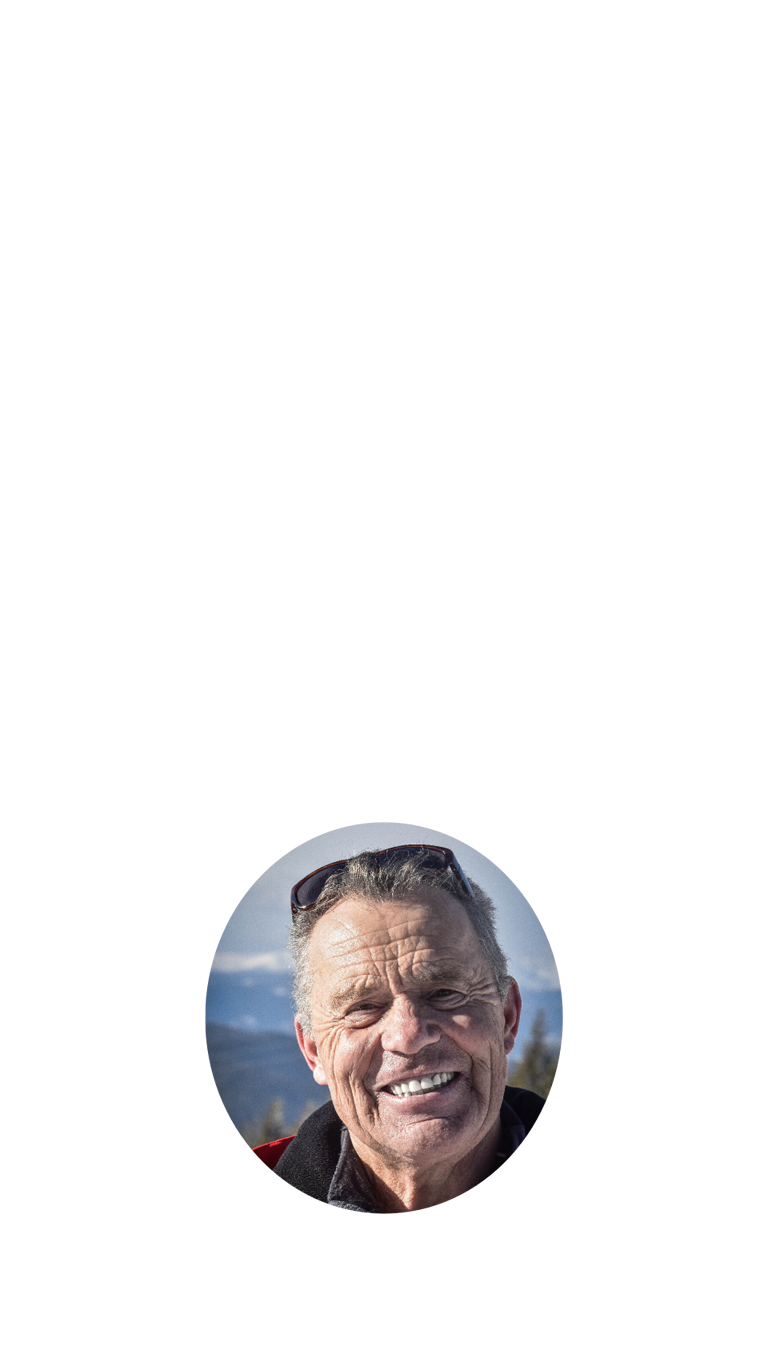
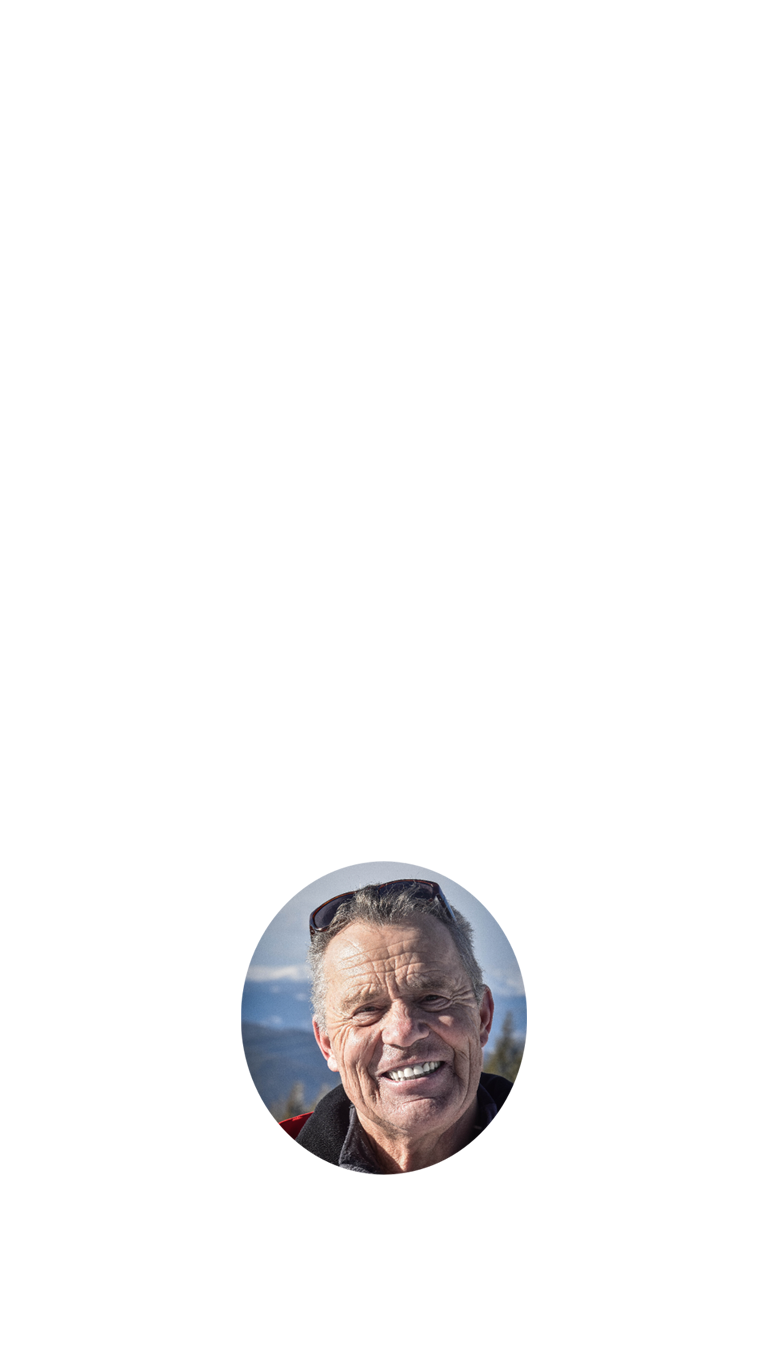
minor changes

Changed region(s): [[0.25, 0.5833, 0.75, 0.8904]]

diff --git a/src/components/Masthead/Masthead.js b/src/components/Masthead/Masthead.js
@@ -1,5 +1,7 @@
 import React, { Component } from 'react';
 import './Masthead.css';
+import './color.css';
+
 
 export default class Element extends Component {
 
@@ -12,15 +14,15 @@ export default class Element extends Component {
         return (
             <div className="Masthead">
                 <div className="Masthead__item">
-                    <span className="Masthead__label">Conçu, écrit et réalisé par</span>
+                    <span className="Masthead__label white">Conçu, écrit et réalisé par</span>
                     <span className="Masthead__details">Solène de Larquier, Charlotte Durand, Aurore Gayte, Gabrielle Ramain, Clotilde Ravel, Léa Sanchez, Lucas Wicky, Marie Zafimehy<a href="//twitter.com/sciencespoEDJ" className="twitter-follow-button" data-show-count="false" data-lang="fr" data-dnt="true">Suivre</a></span>
                 </div>
                 <div className="Masthead__item">
-                    <span className="Masthead__label">Traductions</span>
+                    <span className="Masthead__label white">Traductions</span>
                     <span className="Masthead__details">Caroline Bossard, Sigi Hofmann, Annie Métral, Yann Schreiber, Victoria Wegner, Mathilde Saliou</span>
                 </div>
                 <div className="Masthead__item">
-                    <span className="Masthead__label">Développeur</span>
+                    <span className="Masthead__label white">Développeur</span>
                     <span className="Masthead__details">Raphaël Dardeau<a href="//twitter.com/iron_dev" className="twitter-follow-button" data-show-count="false" data-lang="fr" data-dnt="true">Suivre</a></span>
                 </div>
                 <div className="Masthead__item">
@@ -28,16 +30,16 @@ export default class Element extends Component {
                     <span className="Masthead__details"></span>
                 </div>
                 <div className="Masthead__item Masthead__item--full">
-                    <span className="Masthead__details"><span className="Masthead__label">Correction :</span> Anaïs Bohuon, l’AJL (Association des Journalistes LGBT), Grégory Blachier, Simon Ruben, Patrice Trapier</span>
+                    <span className="Masthead__details"><span className="Masthead__label white">Correction :</span> Anaïs Bohuon, l’AJL (Association des Journalistes LGBT), Grégory Blachier, Simon Ruben, Patrice Trapier</span>
                 </div>
                 <div className="Masthead__item Masthead__item--full">
-                    <span className="Masthead__details"><span className="Masthead__label">Photos :</span> Charlotte Durand et archives personnelles d’Erik Schinegger</span>
+                    <span className="Masthead__details"><span className="Masthead__label white">Photos :</span> Charlotte Durand et archives personnelles d’Erik Schinegger</span>
                 </div>
                 <div className="Masthead__item Masthead__item--full">
-                    <span className="Masthead__details"><span className="Masthead__label">Vidéos :</span> Charlotte Durand, Aurore Gayte, Stanislas Vignon</span>
+                    <span className="Masthead__details"><span className="Masthead__label white">Vidéos :</span> Charlotte Durand, Aurore Gayte, Stanislas Vignon</span>
                 </div>
                 <div className="Masthead__item Masthead__item--full">
-                    <span className="Masthead__details"><span className="Masthead__label">Remerciements :</span> Ecole de Journalisme de Sciences Po, Erik et Christa Schinegger</span>
+                    <span className="Masthead__details"><span className="Masthead__label white">Remerciements :</span> Ecole de Journalisme de Sciences Po, Erik et Christa Schinegger</span>
                 </div>
             </div>
         );

diff --git a/src/components/Board/Board.js b/src/components/Board/Board.js
@@ -66,16 +66,16 @@ export default class Board extends Component {
                 </div>
 
             
-                <div className="Board__slide white_blue Board__slide--middle js-board-doubleslide">
+                <div className="Board__slide white_blue Board__slide--middle">
                     <Edito content={this.props.datas.text[0].zone_1} positionBottom="50%"></Edito>  
                 </div>
 
-                 <div className="Board__slide white_blue js-board-doubleslide">
+                 <div className="Board__slide white_blue">
                  <Element name="CHAP00-PHOTO1B.png" index="m1" positionLeft="10%"></Element> 
                     <Element name="CHAP00-PHOTO1.png" index="p1" positionLeft="-10%"></Element>
                 </div> 
 
-                <div className="Board__slide white_blue Board__slide--middle js-board-doubleslide">
+                <div className="Board__slide white_blue Board__slide--middle">
                     <Edito content={this.props.datas.text[0].zone_2} positionBottom="30%"></Edito>    
                 </div>
 
@@ -84,11 +84,11 @@ export default class Board extends Component {
                     <Element name="CHAP00-CITATION1.png" index="p2" positionLeft="0%"></Element>    
                 </div> 
 
-                <div className="Board__slide white_blue Board__slide--top js-board-doubleslide">
+                <div className="Board__slide white_blue Board__slide--top">
                     <Edito content={this.props.datas.text[0].zone_3} positionTop="20%"></Edito> 
                     <Element name="CHAP00-CITATION2v2.png" index="p1" positionLeft="90%"></Element>   
                 </div>
-                <div className="Board__slide white_blue Board__slide--top js-board-doubleslide"> 
+                <div className="Board__slide white_blue Board__slide--top"> 
                       
                 </div>  
 
@@ -110,7 +110,7 @@ export default class Board extends Component {
                     <Edito content={this.props.datas.text[1].zone_2}></Edito>
                 </div>
 
-                <div className="Board__slide Board__slide--bottom white_blue js-board-doubleslide">
+                <div className="Board__slide Board__slide--bottom white_blue">
                      <Element name="AP-CHAP01-CITATIONANAISv3.png"></Element> 
                 </div>
               
@@ -306,7 +306,7 @@ export default class Board extends Component {
                 </div>  */}
 
                 <div className="Board__slide Board__slide--bottom only_blue">
-                    <Element name="CHAP04-PHOTO2.png" index="p1" positionLeft="0%"></Element>
+                    <Element name="CHAP04-PHOTO2.png" index="p1" positionLeft="-10%"></Element>
                     <Edito content={this.props.datas.text[4].zone_4} positionBottom="5%"></Edito>
                     
                 </div>
@@ -320,7 +320,7 @@ export default class Board extends Component {
                 <div className="Board__slide only_blue">
                 <Skew position="left" bg="OURS.png"></Skew>
                 </div>
-                <div className="Board__slide only_blue">
+                <div className="Board__slide only_blue black">
                     <Masthead />
                 </div>
             </div>

diff --git a/src/components/Board/test.css b/src/components/Board/test.css
@@ -9,3 +9,6 @@
 
 .white {
   color: white; }
+
+.black {
+  color: black; }

diff --git a/src/components/Masthead/color.css b/src/components/Masthead/color.css
@@ -1,0 +1,2 @@
+.white {
+    color: white; }
